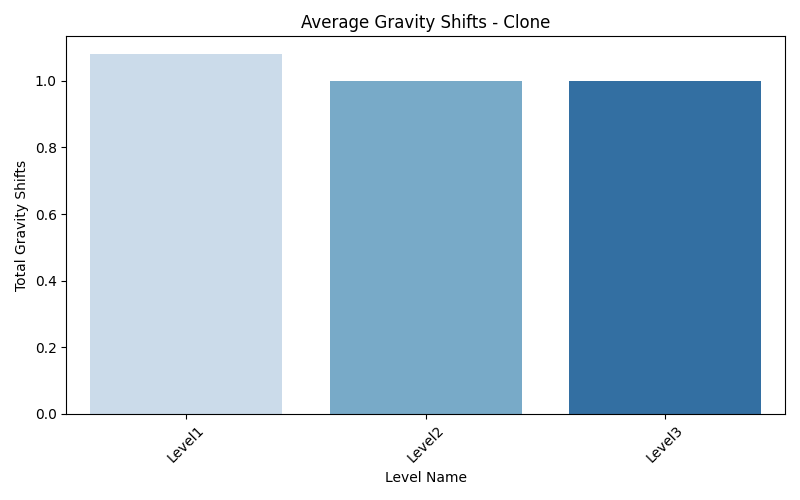
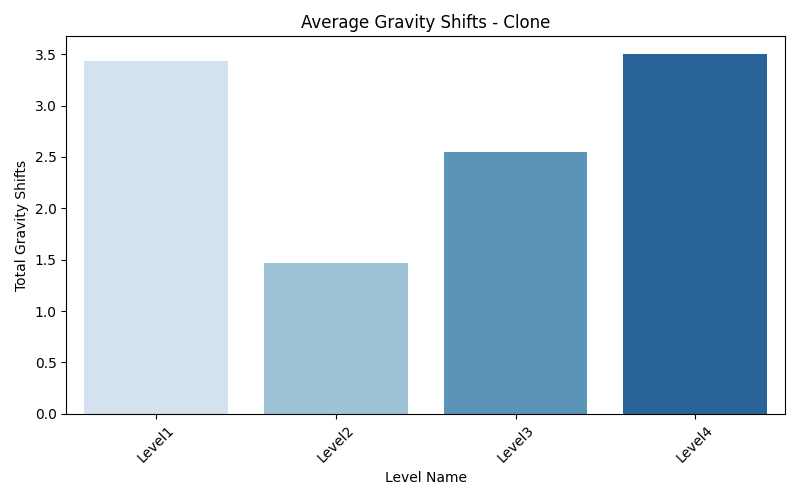
Fixed gravity shift usage analytic

diff --git a/Assets/Analytics/gravity_analysis.py b/Assets/Analytics/gravity_analysis.py
@@ -128,15 +128,28 @@ df_gravity_shift_counts = fetch_firebase_data("gravity_logs")
 df_player = extract_gravity_data(df_gravity_shift_counts, 'player')
 df_clone = extract_gravity_data(df_gravity_shift_counts, 'clone')
 
-player_shifts_per_level = df_player.groupby(
-    'level_name')['gravity_count'].sum()
-clone_shifts_per_level = df_clone.groupby(
-    'level_name')['gravity_count'].sum()
+df_gravity_shift_counts['player_count'] = df_gravity_shift_counts['player'].apply(
+    lambda x: len(x) if isinstance(x, list) else 0)
+
+df_gravity_shift_counts['clone_count'] = df_gravity_shift_counts['clone'].apply(
+    lambda x: len(x) if isinstance(x, list) else 0)
+
+player_shifts_per_level = (
+    df_gravity_shift_counts.groupby('level_name')['player_count']
+    .mean()
+)
+player_shifts_per_level = player_shifts_per_level[player_shifts_per_level > 0]
+
+clone_shifts_per_level = (
+    df_gravity_shift_counts.groupby('level_name')['clone_count']
+    .mean()
+)
+clone_shifts_per_level = clone_shifts_per_level[clone_shifts_per_level > 0]
 
 plot_gravity_shift_counts(player_shifts_per_level,
-                          'Total Gravity Shifts - Player', 'YlOrRd')
+                          'Average Gravity Shifts - Player', 'YlOrRd')
 plot_gravity_shift_counts(clone_shifts_per_level,
-                          'Total Gravity Shifts - Clone', 'Blues')
+                          'Average Gravity Shifts - Clone', 'Blues')
 
 process_gravity_shift_scatter_plot(
     df_player, 'Gravity Shift Scatterplot - Player', "YlOrRd", "player")
